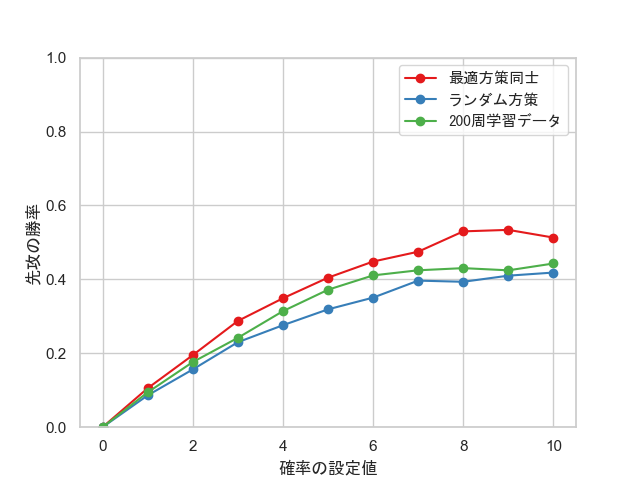
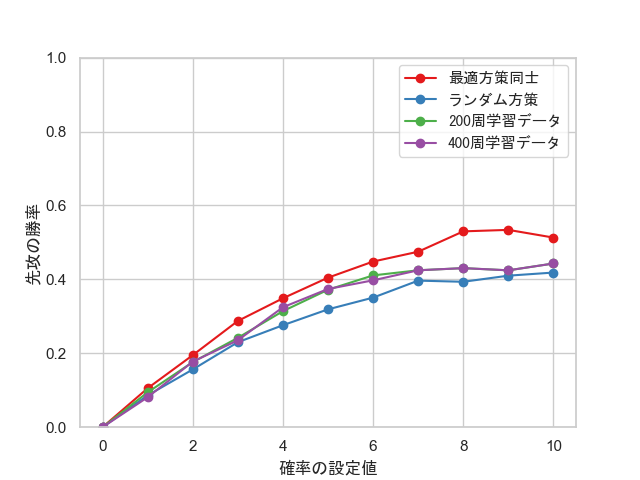
add 400 1 - 6

diff --git a/reversi/make_line_graph.py b/reversi/make_line_graph.py
@@ -16,19 +16,19 @@ for i in range(11):
 x = np.array(y)
 
 # 勝率 = 勝利数 / （勝利数 + 敗戦数） (後攻の勝率)
-turn = False
+turn = True
 
 # 最適方策同士(後攻)の結果
 if turn:
     optimal_win = [10000, 8799, 7970, 7008,
-                6346, 5749, 5325, 5056, 4518, 4479, 4706]
+                   6346, 5749, 5325, 5056, 4518, 4479, 4706]
     optimal_lose = [0, 1036, 1929, 2827, 3399,
                     3906, 4325, 4571, 5092, 5130, 4958]
 else:
     optimal_lose = [10000, 8799, 7970, 7008,
-                6346, 5749, 5325, 5056, 4518, 4479, 4706]
+                    6346, 5749, 5325, 5056, 4518, 4479, 4706]
     optimal_win = [0, 1036, 1929, 2827, 3399,
-                    3906, 4325, 4571, 5092, 5130, 4958]
+                   3906, 4325, 4571, 5092, 5130, 4958]
 if turn:
     # ランダム方策(後攻)の勝率
     random_win = [1527, 995, 1973, 2199, 2469,
@@ -43,31 +43,50 @@ else:
 
 if turn:
     # 学習データ(200)(後攻)の勝率
-    ai_win = [8176, 1864, 5272, 4762, 3900, 4696, 4092, 3715, 3585, 3594, 3561]
-    ai_lose = [1824, 7615, 3881, 4426, 5429,
-               4888, 5306, 5732, 5999, 5939, 5951]
+    ai_200_win = [8176, 1864, 5272, 4762, 3900,
+                  4696, 4092, 3715, 3585, 3594, 3561]
+    ai_200_lose = [1824, 7615, 3881, 4426, 5429,
+                   4888, 5306, 5732, 5999, 5939, 5951]
 else:
     # 学習データ(200)(先攻)の勝率
-    ai_win = [0, 928, 1735, 2363, 3061, 3590, 3954, 4074, 4145, 4064, 4248]
-    ai_lose = [10000, 8927, 8116, 7414, 6689,
-               6063, 5673, 5522, 5486, 5511, 5343]
+    ai_200_win = [0, 928, 1735, 2363, 3061, 3590, 3954, 4074, 4145, 4064, 4248]
+    ai_200_lose = [10000, 8927, 8116, 7414, 6689,
+                   6063, 5673, 5522, 5486, 5511, 5343]
+
+if turn:
+    # 学習データ(400)(後攻)の勝率
+    ai_400_win = [8176, 750, 5707, 5293, 4442,
+                  4501, 3828, 3715, 3585, 3594, 3561]
+    ai_400_lose = [1824, 9084, 3541, 4207, 4883,
+                   5030, 5399, 5732, 5999, 5939, 5951]
+else:
+    # 学習データ(400)(先攻)の勝率
+    ai_400_win = [0, 806, 1740, 2309, 3162, 3632, 3846, 4074, 4145, 4064, 4248]
+    ai_400_lose = [10000, 9142, 8077, 7508, 6582,
+                   6080, 5832, 5522, 5486, 5511, 5343]
 
 optimal_win_late = [0] * 11
 random_win_late = [0] * 11
-ai_win_late = [0] * 11
+ai_200_win_late = [0] * 11
+ai_400_win_late = [0] * 11
+
 for i in range(11):
     optimal_win_late[i] = optimal_win[i] / (optimal_win[i] + optimal_lose[i])
     random_win_late[i] = random_win[i] / (random_win[i] + random_lose[i])
-    ai_win_late[i] = ai_win[i] / (ai_win[i] + ai_lose[i])
+    ai_200_win_late[i] = ai_200_win[i] / (ai_200_win[i] + ai_200_lose[i])
+    ai_400_win_late[i] = ai_400_win[i] / (ai_400_win[i] + ai_400_lose[i])
+
 gene_1 = np.array(optimal_win_late)
 gene_2 = np.array(random_win_late)
-gene_3 = np.array(ai_win_late)
+gene_3 = np.array(ai_200_win_late)
+gene_4 = np.array(ai_400_win_late)
 
 df = pd.DataFrame({
     'x': x,
     'gene_1': gene_1,
     'gene_2': gene_2,
-    'gene_3': gene_3
+    'gene_3': gene_3,
+    'gene_4': gene_4
 })
 
 fig = plt.figure()
@@ -76,6 +95,7 @@ ax = fig.add_subplot(1, 1, 1)
 ax.plot('x', 'gene_1', data=df, label='最適方策同士', marker='o')
 ax.plot('x', 'gene_2', data=df, label='ランダム方策', marker='o')
 ax.plot('x', 'gene_3', data=df, label='200周学習データ', marker='o')
+ax.plot('x', 'gene_4', data=df, label='400周学習データ', marker='o')
 ax.legend(prop={"family": "MS Gothic"})
 ax.set_xlabel("確率の設定値", fontname="MS Gothic")
 if turn:
